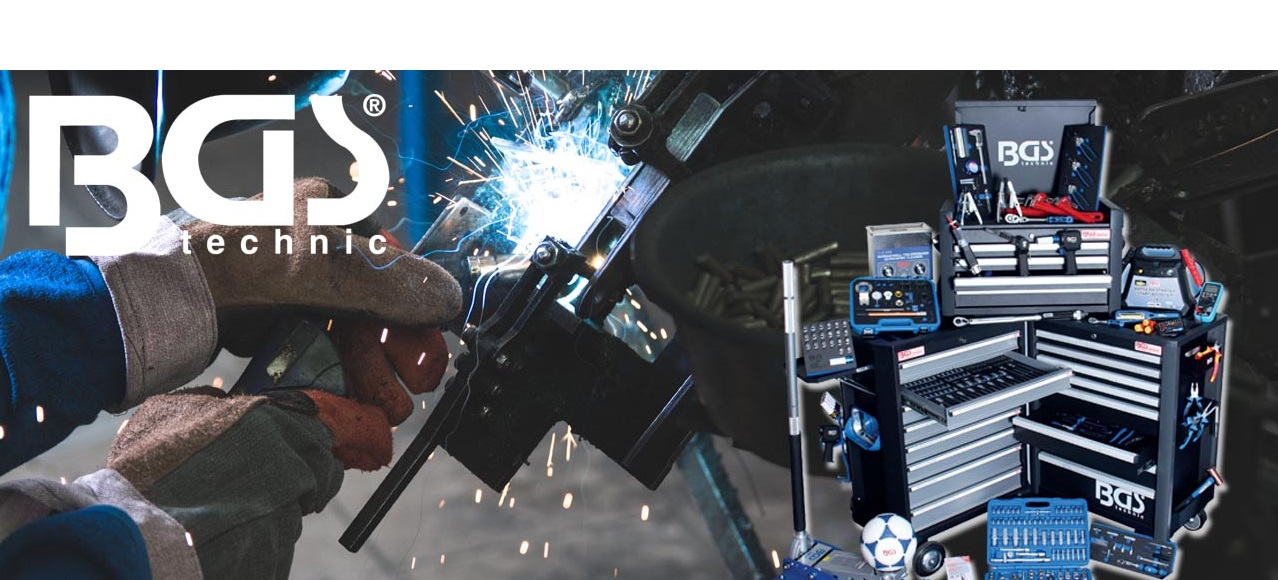
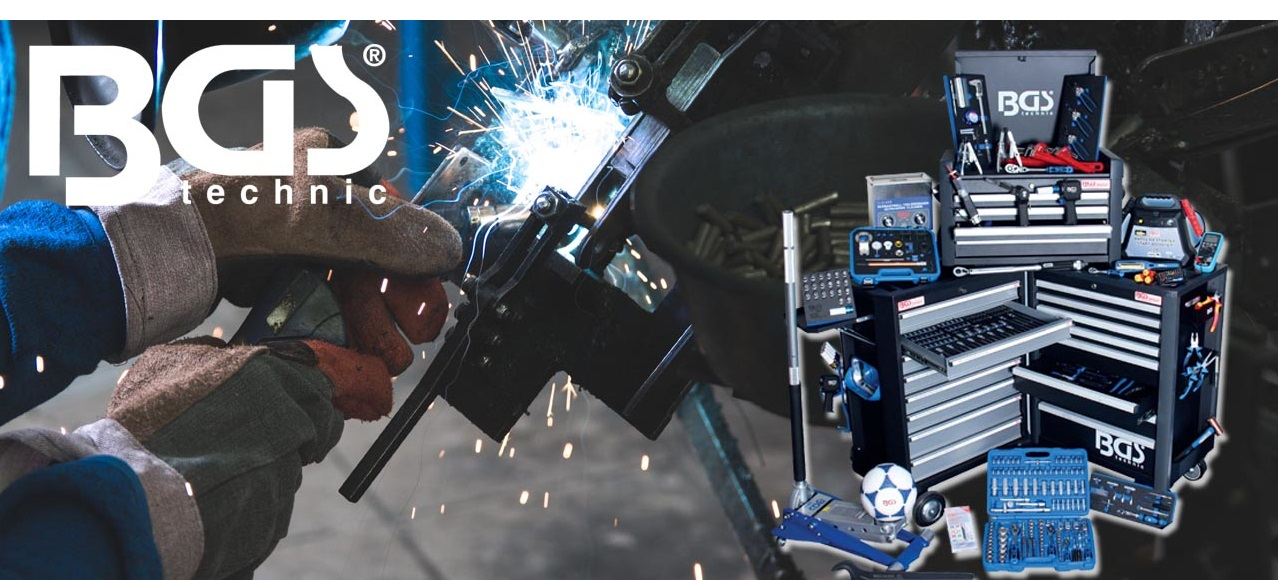
nav

diff --git a/index.html b/index.html
@@ -11,51 +11,39 @@
     <link rel="stylesheet" href="css/style.css">
 </head>
 <body>
-    <div id="home" class="container" style="position:absolute; z-index: 20;">
-        <div style="height:50px"></div>
-        <div style="padding-left:15%;" class="row">
-            <div class="col m4">
-                <img src="images/logo.png" style="width:300px" alt="">
+    <div class="navbar-fixed">
+        <nav class="" style="background-color: white; height: 83px">
+            <div class="container">
+                <div class="nav-wrapper">
+                    <a href="index.html" class="brand-logo">
+                        <img class="logo" src="images/logo.png" alt="">
+                    </a>
+                    <a href="#" data-target="mobile-demo" class="sidenav-trigger show-on-large-and-down"><i class="material-icons">menu</i></a>
+                    <ul class="right hide-on-med-and-down hide-on-large-only show-on-extra-large">
+                        <li><a class="azul-text font-fgb nav-font-size" href="index.html#home">HOME</a></li>
+                        <li><a class="azul-text font-fgb nav-font-size" href="index.html#nosotros">NOSOTROS</a></li>
+                        <li><a class="azul-text font-fgb nav-font-size" href="catalogo.html">CATÁLOGO</a></li>
+                        <li><a class="azul-text font-fgb nav-font-size" href="index.html#contacto">CONTACTO</a></li>
+                    </ul>
+                </div>
             </div>
-        </div>
-        <div style="height:50px"></div>
+        </nav>
     </div>
-    <nav class="" style="position: absolute; z-index: 100; margin-top: 200px; background-color: white; height: 83px">
-        <div class="container">
-            <div class="nav-wrapper">
-                <a href="index.html" class="brand-logo">
-                    <img style="display:none" class="logo" src="images/logo.png" alt="">
-                </a>
-                <a href="#" data-target="mobile-demo" class="sidenav-trigger show-on-large-and-down"><i class="material-icons">menu</i></a>
-                <ul class="right hide-on-med-and-down hide-on-large-only show-on-extra-large">
-                    <li><a class="azul-text font-fgb nav-font-size" href="#home">HOME</a></li>
-                    <li><a class="azul-text font-fgb nav-font-size" href="#nosotros">NOSOTROS</a></li>
-                    <li><a class="azul-text font-fgb nav-font-size" href="catalogo.html">CATÁLOGO</a></li>
-                    <li><a class="azul-text font-fgb nav-font-size" href="#contacto">CONTACTO</a></li>
-                </ul>
-            </div>
-        </div>
-    </nav>
-    </div>
-    <ul id='dropdown1' class='dropdown-content'>
-        <li><a class="font-fgb" href="#!">Marca 1</a></li>
-        <li><a class="font-fgb" href="#!">Marca 2</a></li>
-    </ul>
     <ul class="sidenav" id="mobile-demo">
         <li><a href="#home">HOME</a></li>
         <li><a href="#nosotros">NOSOTROS</a></li>
         <li><a href="catalogo.html">CATALOGO</a></li>
         <li><a href="#contacto">CONTACTO</a></li>
     </ul>
-    <div style="padding-top:200px">
+    <div>
         <div id="home" class="slider">
             <div class="slider">
                 <ul class="slides">
                     <li>
                         <img src="images/img5.jpg"> 
-                        <div class="caption center-align" style="margin-top: 180px;">
+                        <div class="caption center-align" style="margin-top: 150px;">
                             <h3 class="right-align font-fgb">Más que un Broker...</h3>
-                            <!--<h5 class="light grey-text text-lighten-3">Here's our small slogan.</h5>-->
+                            <h3 class="right-align font-fgb">Brindamos soluciones rápidas a tus necesidades</h3>
                         </div>
                     </li>
                     <li>
@@ -80,40 +68,6 @@
             </div>
         </div>
         <div style="height:30px"></div>
-        <!--<div class="container">
-            <h2 class="center">Nisi sunt in</h2>
-            <br>
-            <div class="row">
-                <div class="hover col m6">
-                    <div class="service1">
-                        <br>
-                        <h2 class="white-text">Aliquip</h2>
-                        <div class="row">
-                            <div class="col m9">
-                                <p class="white-text">Duis ut deserunt tempor labore ullamco sint sit et anim ea.</p>
-                            </div>
-                            <div class="col m3">
-                                <a href="" class="mas"><i class="small material-icons">chevron_right</i></a>
-                            </div>
-                        </div>
-                    </div>  
-                </div>
-                <div class="hover col m6">
-                    <div class="service1">
-                        <br>
-                        <h2 class="white-text">Aliquip</h2>
-                        <div class="row">
-                            <div class="col m9">
-                                <p class="white-text">Duis ut deserunt tempor labore ullamco sint sit et anim ea.</p>
-                            </div>
-                            <div class="col m3">
-                                <a href="" class="mas"><i class="small material-icons">chevron_right</i></a>
-                            </div>
-                        </div>
-                    </div> 
-                </div>
-            </div>
-        </div>-->
         <div id="nosotros" style="height:50px"></div>
         <div class="nosotros">
             <div class="row">
@@ -213,6 +167,5 @@
     <script src="https://code.jquery.com/jquery-3.3.1.js" integrity="sha256-2Kok7MbOyxpgUVvAk/HJ2jigOSYS2auK4Pfzbm7uH60=" crossorigin="anonymous"></script>
     <script src="https://cdnjs.cloudflare.com/ajax/libs/materialize/1.0.0/js/materialize.min.js"></script>
     <script src="js/materialize.js"></script>
-    <script src="js/nav.js"></script>
 </body>
 </html>
